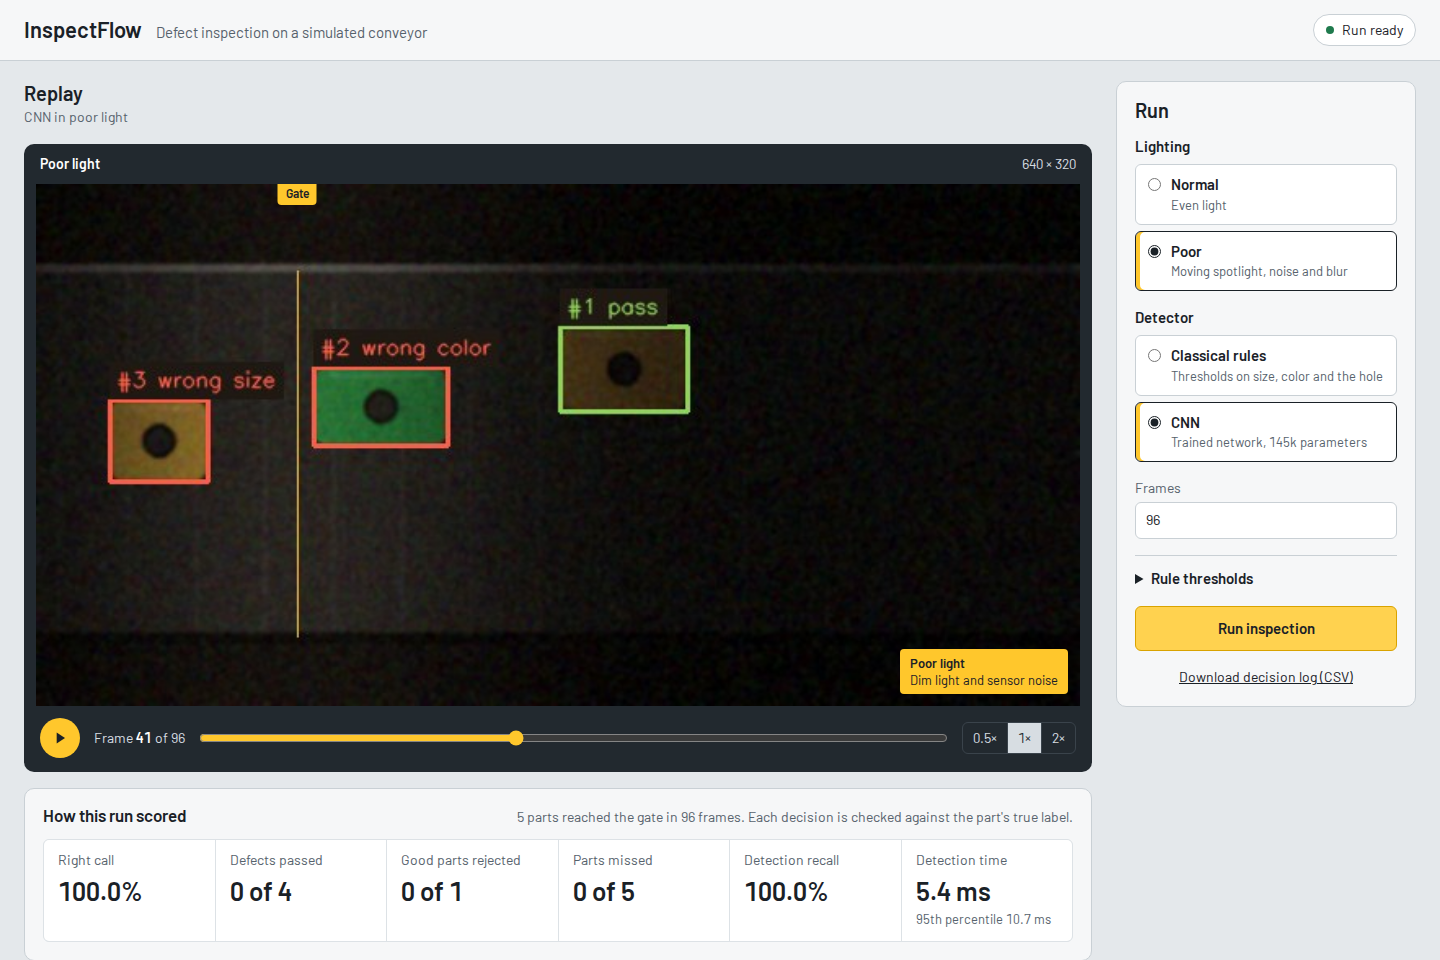
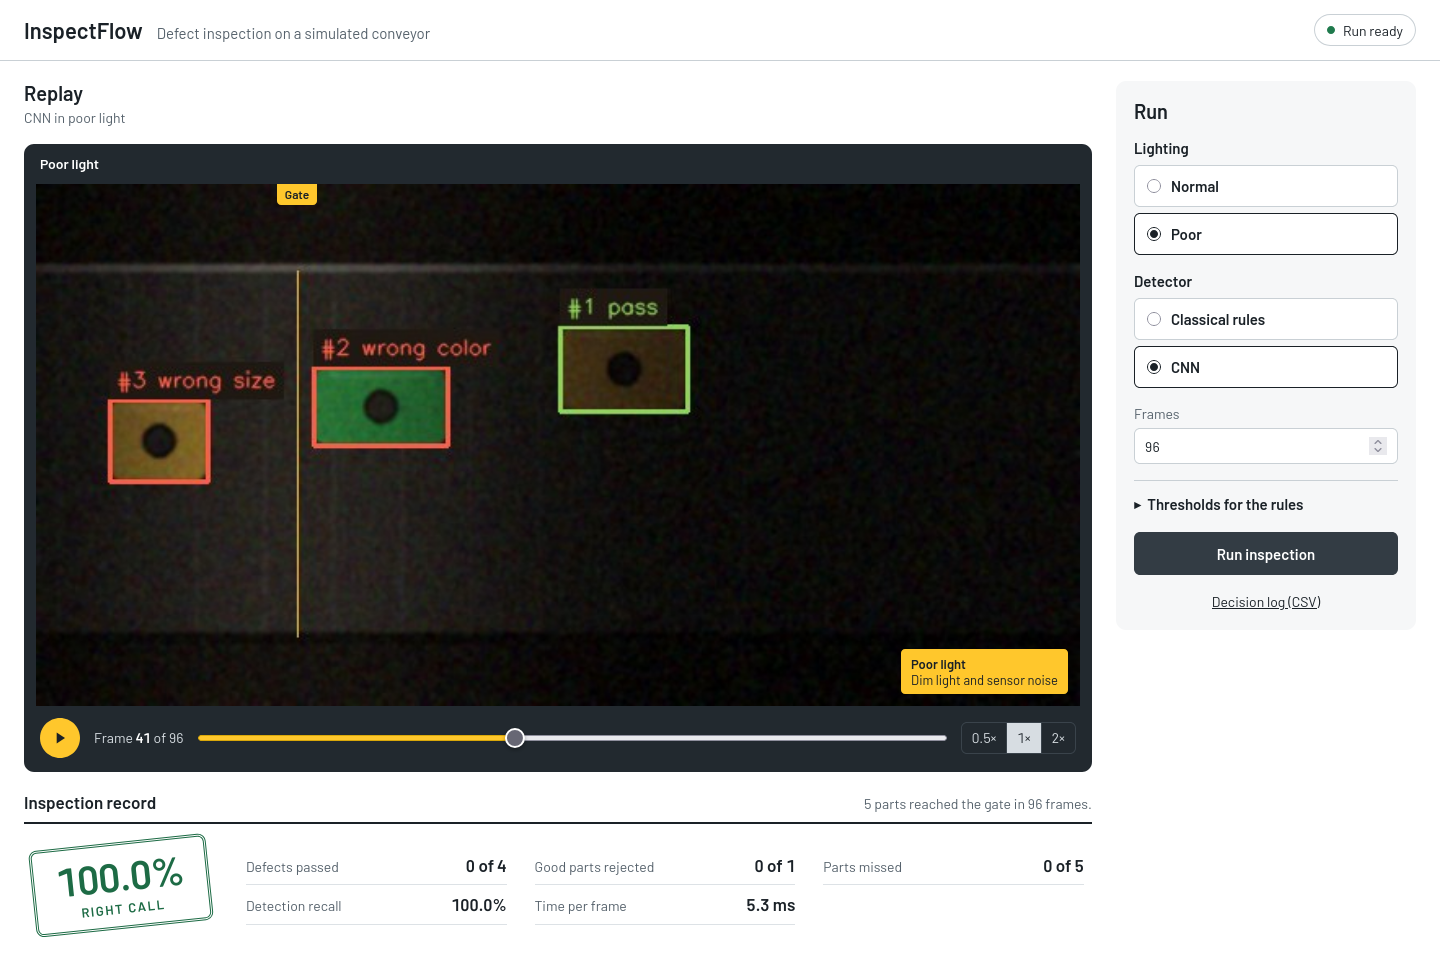
Upgrade setuptools in CI before the dependency audit

Changed region(s): [[0.0, 0.0, 1.0, 1.0], [0.625, 0.6875, 0.7188, 0.7188], [0.1875, 0.1875, 0.2188, 0.2188]]

diff --git a/inspectflow/static/styles.css b/inspectflow/static/styles.css
@@ -1,13 +1,13 @@
-/* Steel-grey workstation with the camera in a dark housing. Safety yellow is
-   the one accent: the gate marker, the run button and selected options. */
+/* A QC inspection record: plain paper, the camera in its dark housing, and the
+   result rubber-stamped in inspector's ink. Safety yellow stays on the camera. */
 
 @font-face { font-family: Barlow; font-weight: 400; font-display: swap; src: url("/static/fonts/barlow-400.woff2") format("woff2"); }
 @font-face { font-family: Barlow; font-weight: 500; font-display: swap; src: url("/static/fonts/barlow-500.woff2") format("woff2"); }
 @font-face { font-family: Barlow; font-weight: 600; font-display: swap; src: url("/static/fonts/barlow-600.woff2") format("woff2"); }
 
 :root {
-  --steel: #e4e8eb;
-  --panel: #f6f7f8;
+  --steel: #ffffff;
+  --panel: #ffffff;
   --ink: #1a2127;
   --muted: #56626c;
   --line: #c9d0d5;
@@ -20,6 +20,8 @@
   --yellow-soft: #fff4d1;
   --pass: #1f7a4d;
   --reject: #b3261e;
+  --ink-stamp-pass: #1d6b45;
+  --ink-stamp-fail: #c0262d;
 }
 
 * { box-sizing: border-box; }
@@ -149,26 +151,34 @@ button, input { font: inherit; color: inherit; }
 
 /* Panels */
 
-.panel { padding: 16px 18px 18px; background: var(--panel); border: 1px solid var(--line); border-radius: 10px; }
-.panel-heading { display: flex; flex-wrap: wrap; align-items: baseline; justify-content: space-between; gap: 4px 16px; margin-bottom: 12px; }
+.panel { padding: 16px 0 0; background: var(--panel); }
+.panel-heading h2 { font-size: 17px; }
+.panel-heading { display: flex; flex-wrap: wrap; align-items: baseline; justify-content: space-between; gap: 4px 16px; margin-bottom: 8px; padding-bottom: 8px; border-bottom: 2px solid var(--ink); }
 
-/* A 1px gap over the line colour draws the dividers at any column count. */
-.scores {
+/* The record: a stamp for the headline result, a ruled tally for the rest */
+.record { padding: 4px 0 0; }
+.record-heading { display: flex; flex-wrap: wrap; align-items: baseline; justify-content: space-between; gap: 4px 16px; padding-bottom: 8px; border-bottom: 2px solid var(--ink); }
+.record-body { display: grid; grid-template-columns: auto minmax(0, 1fr); align-items: center; gap: 36px; padding: 18px 8px 4px; }
+
+.stamp {
   display: grid;
-  grid-template-columns: repeat(6, minmax(0, 1fr));
-  gap: 1px;
+  justify-items: center;
   margin: 0;
-  overflow: hidden;
-  background: var(--line-soft);
-  border: 1px solid var(--line-soft);
-  border-radius: 6px;
+  padding: 10px 22px 8px;
+  color: var(--ink-stamp-pass);
+  border: 3px double currentColor;
+  border-radius: 8px;
+  transform: rotate(-6deg);
 }
-.scores > div { padding: 10px 14px 12px; background: #fff; }
-.scores dt { color: var(--muted); font-size: 14px; }
-.scores dd { margin: 2px 0 0; font-size: 26px; font-weight: 600; white-space: nowrap; }
-.scores dd small { display: block; color: var(--muted); font-size: 13px; font-weight: 400; }
-.scores .flagged { box-shadow: inset 0 -3px 0 var(--reject); }
-.scores .flagged dd { color: var(--reject); }
+.stamp span { font-size: 40px; font-weight: 600; line-height: 1; letter-spacing: -0.01em; }
+.stamp small { margin-top: 4px; font-size: 13px; font-weight: 600; text-transform: uppercase; letter-spacing: 0.12em; }
+.stamp.stamp--fail { color: var(--ink-stamp-fail); }
+
+.tally { display: grid; grid-template-columns: repeat(auto-fit, minmax(210px, 1fr)); gap: 0 28px; margin: 0; }
+.tally > div { display: flex; align-items: baseline; justify-content: space-between; gap: 12px; padding: 7px 0; border-bottom: 1px solid var(--line-soft); }
+.tally dt { color: var(--muted); font-size: 14px; }
+.tally dd { margin: 0; font-size: 17px; font-weight: 600; white-space: nowrap; }
+.tally .flagged dd { color: var(--reject); }
 
 .table-wrap { overflow-x: auto; }
 .parts { width: 100%; font-size: 14px; border-collapse: collapse; }
@@ -184,7 +194,7 @@ button, input { font: inherit; color: inherit; }
 
 /* Run controls */
 
-.controls { position: sticky; top: 16px; }
+.controls { position: sticky; top: 16px; padding: 18px; background: #f6f7f8; border-radius: 10px; }
 .controls h2 { margin-bottom: 14px; font-size: 20px; }
 #runForm { display: grid; gap: 16px; }
 fieldset { display: grid; gap: 6px; min-width: 0; margin: 0; padding: 0; border: 0; }
@@ -204,7 +214,7 @@ legend { margin-bottom: 6px; padding: 0; font-weight: 600; }
 .option span { display: grid; }
 .option strong { font-weight: 600; }
 .option small { color: var(--muted); font-size: 13px; }
-.option:has(input:checked) { border-color: var(--ink); box-shadow: inset 4px 0 0 var(--yellow); }
+.option:has(input:checked) { border-color: var(--ink); }
 .option:has(input:focus-visible) { outline: 3px solid var(--ink); outline-offset: 2px; }
 
 .field { display: grid; grid-template-columns: 1fr auto; gap: 4px; color: var(--muted); font-size: 14px; }
@@ -223,11 +233,12 @@ summary { font-weight: 600; cursor: pointer; }
   padding: 11px 14px;
   font-weight: 600;
   cursor: pointer;
-  background: var(--yellow);
-  border: 1px solid var(--yellow-dark);
+  color: #fff;
+  background: var(--ink);
+  border: 0;
   border-radius: 6px;
 }
-.run-button:hover:not(:disabled) { background: #ffd24f; }
+.run-button:hover:not(:disabled) { background: #333c44; }
 .run-button:disabled { cursor: progress; opacity: 0.6; }
 
 .download { color: var(--ink); font-size: 14px; text-align: center; }
@@ -236,7 +247,6 @@ summary { font-weight: 600; cursor: pointer; }
 @media (max-width: 1100px) {
   .layout { grid-template-columns: minmax(0, 1fr); }
   .controls { position: static; }
-  .scores { grid-template-columns: repeat(3, minmax(0, 1fr)); }
 }
 
 @media (max-width: 640px) {
@@ -245,7 +255,5 @@ summary { font-weight: 600; cursor: pointer; }
   .transport { flex-wrap: wrap; }
   .transport input { flex-basis: 100%; order: 3; }
   .flag span { display: none; }
-  .panel { padding: 14px; }
-  .scores { grid-template-columns: repeat(2, minmax(0, 1fr)); }
-  .scores dd { font-size: 22px; }
+  .record-body { grid-template-columns: minmax(0, 1fr); justify-items: start; gap: 20px; }
 }

diff --git a/inspectflow/static/index.html b/inspectflow/static/index.html
@@ -22,7 +22,7 @@
       <p id="runContext" class="muted">No run yet.</p>
 
       <figure class="camera">
-        <figcaption class="camera-bar"><span id="lighting">Normal light</span><span>640 × 320</span></figcaption>
+        <figcaption class="camera-bar"><span id="lighting">Normal light</span></figcaption>
         <div class="viewport">
           <span class="gate-marker" aria-hidden="true">Gate</span>
           <img id="frame" alt="Annotated conveyor frame">
@@ -43,24 +43,26 @@
         </div>
       </figure>
 
-      <section class="panel" aria-labelledby="score-heading">
-        <div class="panel-heading">
-          <h2 id="score-heading">How this run scored</h2>
-          <p id="scoreContext" class="muted">Each decision at the gate is checked against the part's true label.</p>
+      <section class="record" aria-labelledby="score-heading">
+        <div class="record-heading">
+          <h2 id="score-heading">Inspection record</h2>
+          <p id="scoreContext" class="muted"></p>
         </div>
-        <dl class="scores">
-          <div><dt>Right call</dt><dd id="rightCall">—</dd></div>
-          <div><dt>Defects passed</dt><dd id="escapes">—</dd></div>
-          <div><dt>Good parts rejected</dt><dd id="falseRejects">—</dd></div>
-          <div><dt>Parts missed</dt><dd id="missed">—</dd></div>
-          <div><dt>Detection recall</dt><dd id="recall">—</dd></div>
-          <div><dt>Detection time</dt><dd id="latency">—</dd></div>
-        </dl>
+        <div class="record-body">
+          <p class="stamp" id="stamp"><span id="rightCall">—</span><small>right call</small></p>
+          <dl class="tally">
+            <div><dt>Defects passed</dt><dd id="escapes">—</dd></div>
+            <div><dt>Good parts rejected</dt><dd id="falseRejects">—</dd></div>
+            <div><dt>Parts missed</dt><dd id="missed">—</dd></div>
+            <div><dt>Detection recall</dt><dd id="recall">—</dd></div>
+            <div><dt>Time per frame</dt><dd id="latency">—</dd></div>
+          </dl>
+        </div>
       </section>
 
       <section class="panel" aria-labelledby="parts-heading">
         <div class="panel-heading">
-          <h2 id="parts-heading">Parts in this frame</h2>
+          <h2 id="parts-heading">In this frame</h2>
           <p class="muted"><span id="passedSoFar">0</span> passed and <span id="rejectedSoFar">0</span> rejected so far</p>
         </div>
         <div class="table-wrap" tabindex="0" aria-label="Parts in this frame">
@@ -82,18 +84,17 @@
       <form id="runForm">
         <fieldset>
           <legend>Lighting</legend>
-          <label class="option"><input type="radio" name="scenario" value="nominal" checked><span><strong>Normal</strong><small>Even light</small></span></label>
-          <label class="option"><input type="radio" name="scenario" value="poor_lighting"><span><strong>Poor</strong><small>Moving spotlight, noise and blur</small></span></label>
+          <label class="option"><input type="radio" name="scenario" value="nominal" checked><span><strong>Normal</strong></span></label>
+          <label class="option"><input type="radio" name="scenario" value="poor_lighting"><span><strong>Poor</strong></span></label>
         </fieldset>
         <fieldset>
           <legend>Detector</legend>
-          <label class="option"><input type="radio" name="detector" value="classical" checked><span><strong>Classical rules</strong><small>Thresholds on size, color and the hole</small></span></label>
-          <label class="option"><input type="radio" name="detector" value="cnn"><span><strong>CNN</strong><small>Trained network, 145k parameters</small></span></label>
+          <label class="option"><input type="radio" name="detector" value="classical" checked><span><strong>Classical rules</strong></span></label>
+          <label class="option"><input type="radio" name="detector" value="cnn"><span><strong>CNN</strong></span></label>
         </fieldset>
         <label class="field">Frames <input name="frame_count" type="number" min="8" max="240" value="96" required></label>
         <details>
-          <summary>Rule thresholds</summary>
-          <p class="muted">These only affect the classical rules.</p>
+          <summary>Thresholds for the rules</summary>
           <label class="field">Size tolerance <output id="toleranceValue">18%</output>
             <input name="dimension_tolerance" type="range" min="0.05" max="0.5" step="0.01" value="0.18"></label>
           <label class="field">Color distance <output id="colorValue">60</output>
@@ -103,7 +104,7 @@
         </details>
         <p class="error" id="error" role="alert" hidden></p>
         <button class="run-button" id="runButton" type="submit">Run inspection</button>
-        <a class="download disabled" id="download" aria-disabled="true">Download decision log (CSV)</a>
+        <a class="download disabled" id="download" aria-disabled="true">Decision log (CSV)</a>
       </form>
     </aside>
   </main>

diff --git a/inspectflow/static/app.js b/inspectflow/static/app.js
@@ -106,15 +106,14 @@ function showRun() {
 
   const gate = run.evaluation.gate;
   const detect = run.timing.detect;
-  $("scoreContext").textContent = `${gate.parts} parts reached the gate in ${run.frames.length} frames. Each decision is checked against the part's true label.`;
+  $("scoreContext").textContent = `${gate.parts} parts reached the gate in ${run.frames.length} frames.`;
   $("rightCall").textContent = percent(gate.verdict_accuracy);
   $("escapes").textContent = `${gate.counts.escape} of ${gate.defective_parts}`;
   $("falseRejects").textContent = `${gate.counts.false_reject} of ${gate.good_parts}`;
   $("missed").textContent = `${gate.counts.missed} of ${gate.parts}`;
   $("recall").textContent = percent(run.evaluation.frames.detection.recall);
-  const p95 = document.createElement("small");
-  p95.textContent = `95th percentile ${detect.p95_ms.toFixed(1)} ms`;
-  $("latency").replaceChildren(`${detect.p50_ms.toFixed(1)} ms`, p95);
+  $("latency").textContent = `${detect.p50_ms.toFixed(1)} ms`;
+  $("stamp").classList.toggle("stamp--fail", gate.verdict_accuracy < 1);
   $("escapes").parentElement.classList.toggle("flagged", gate.counts.escape > 0);
   $("falseRejects").parentElement.classList.toggle("flagged", gate.counts.false_reject > 0);
 
